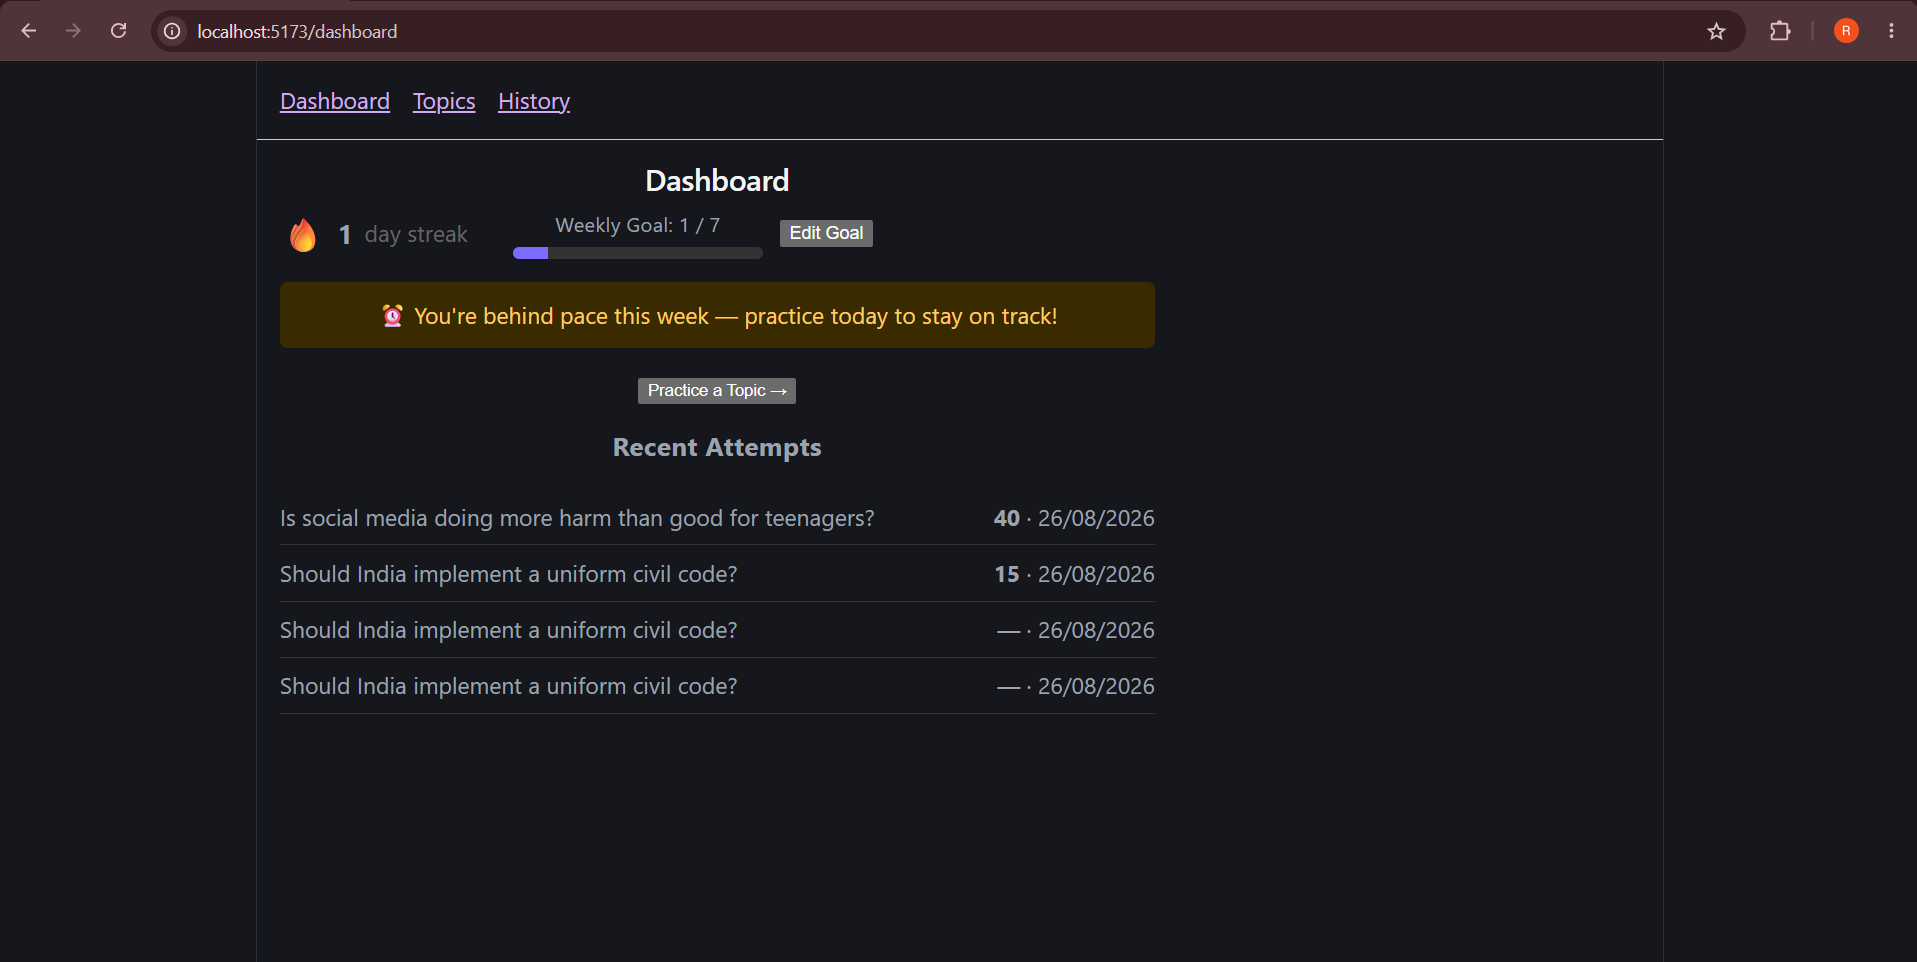
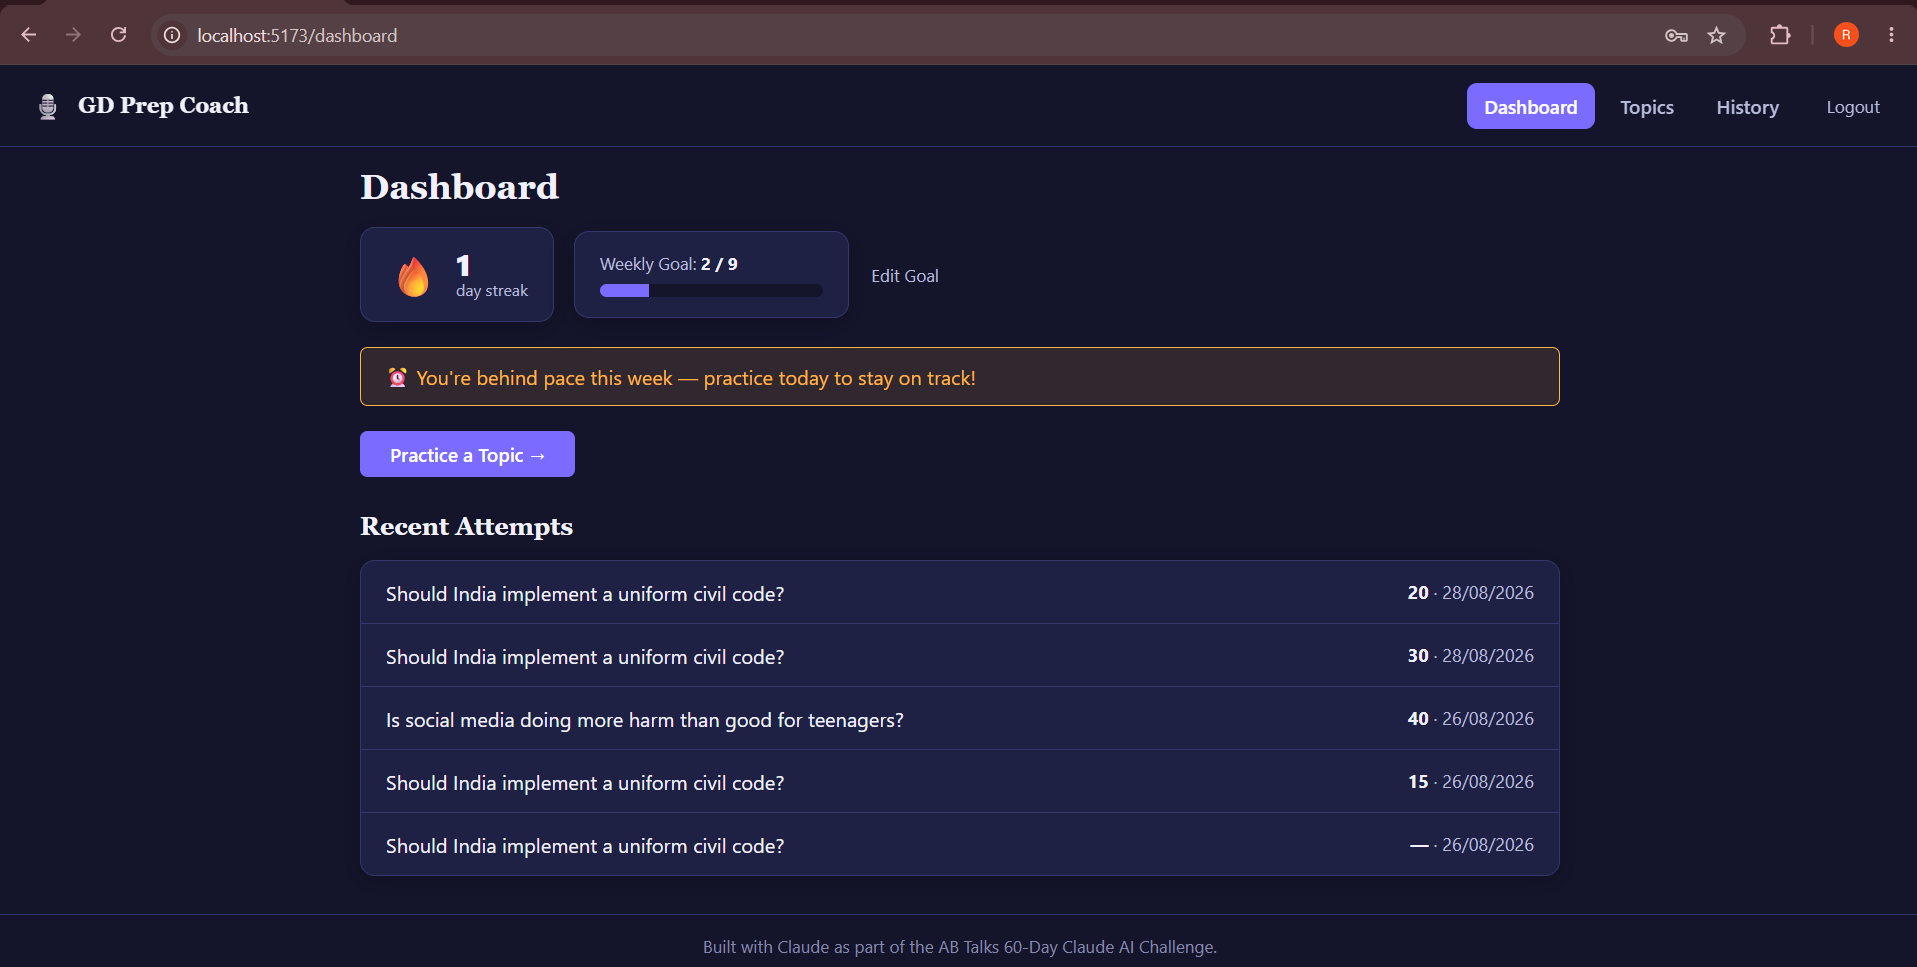
Update social preview image with corrected Dashboard UI

diff --git a/client/src/components/StreakBadge.jsx b/client/src/components/StreakBadge.jsx
@@ -1,20 +1,12 @@
-export default function GoalProgressBar({ weekProgress, weeklyGoal }) {
-  const percent = Math.min(100, Math.round((weekProgress / weeklyGoal) * 100));
-
+export default function StreakBadge({ streak }) {
   return (
-    <div className="card" style={{ padding: '16px 20px', minWidth: '220px' }}>
-      <div style={{ fontSize: '0.85rem', color: 'var(--color-text-muted)', marginBottom: '8px' }}>
-        Weekly Goal: <strong style={{ color: 'var(--color-text)' }}>{weekProgress} / {weeklyGoal}</strong>
-      </div>
-      <div style={{ background: 'var(--color-bg)', borderRadius: '6px', height: '10px', overflow: 'hidden' }}>
-        <div
-          style={{
-            background: percent >= 100 ? 'var(--color-success)' : 'var(--color-accent)',
-            width: `${percent}%`,
-            height: '100%',
-            transition: 'width 0.4s ease',
-          }}
-        />
+    <div className="card" style={{ display: 'flex', alignItems: 'center', gap: '12px', padding: '16px 20px' }}>
+      <span style={{ fontSize: '2rem' }}>🔥</span>
+      <div>
+        <div style={{ fontSize: '1.5rem', fontWeight: 800, lineHeight: 1 }}>{streak}</div>
+        <div style={{ fontSize: '0.8rem', color: 'var(--color-text-muted)' }}>
+          day{streak === 1 ? '' : 's'} streak
+        </div>
       </div>
     </div>
   );
